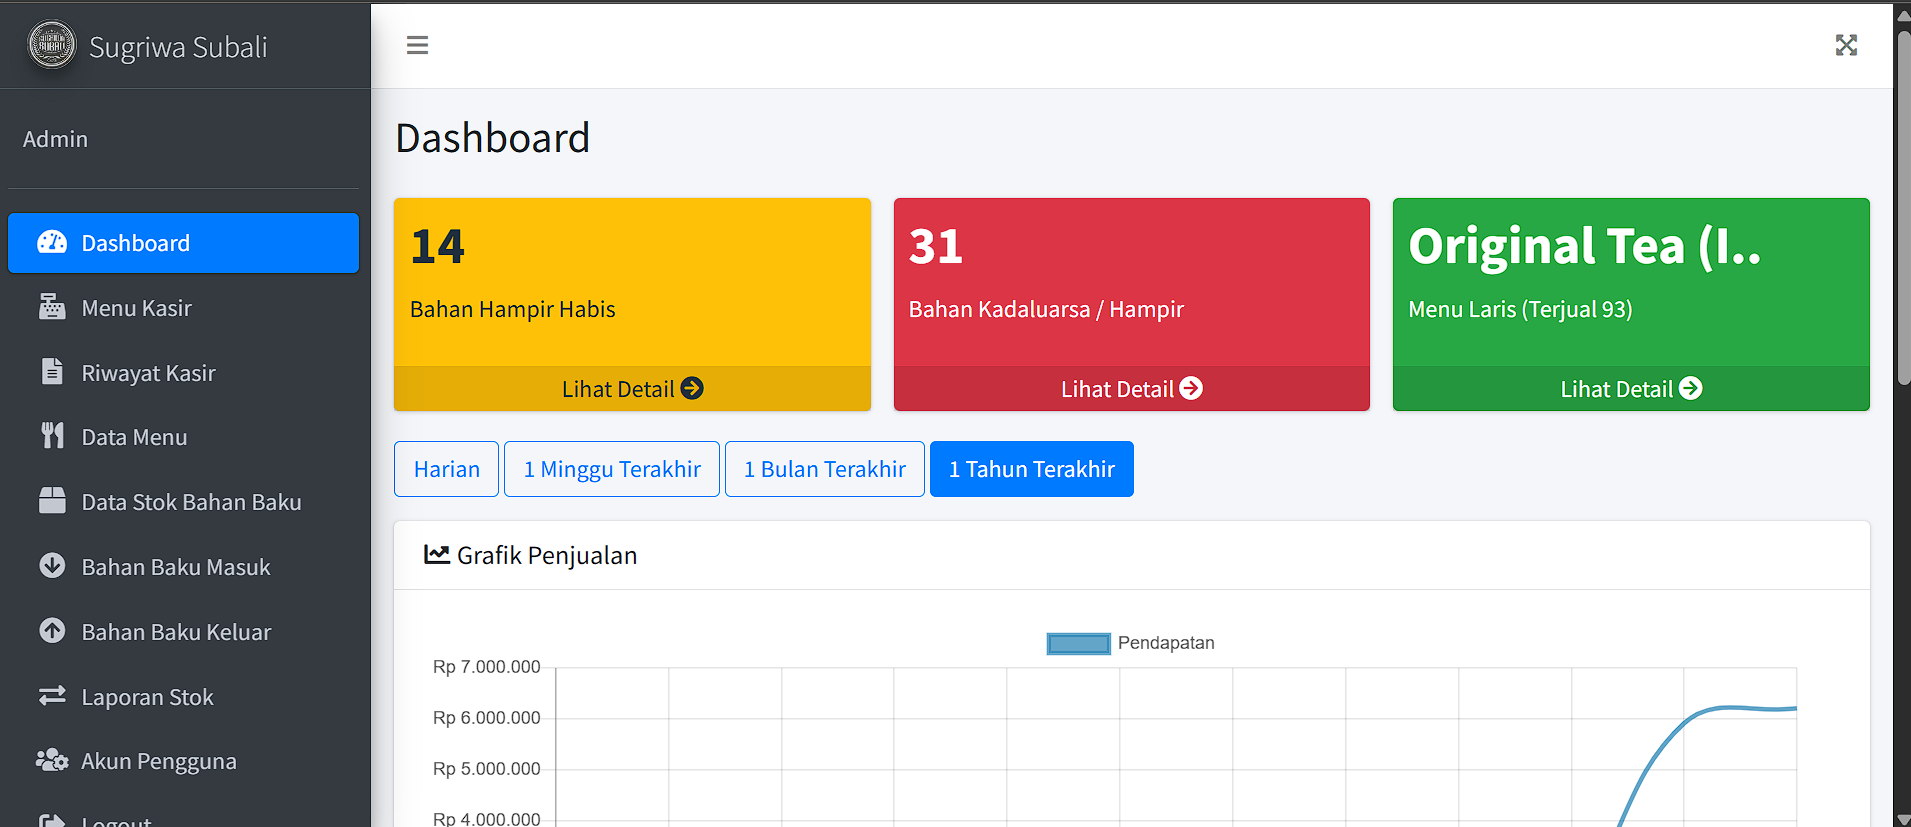
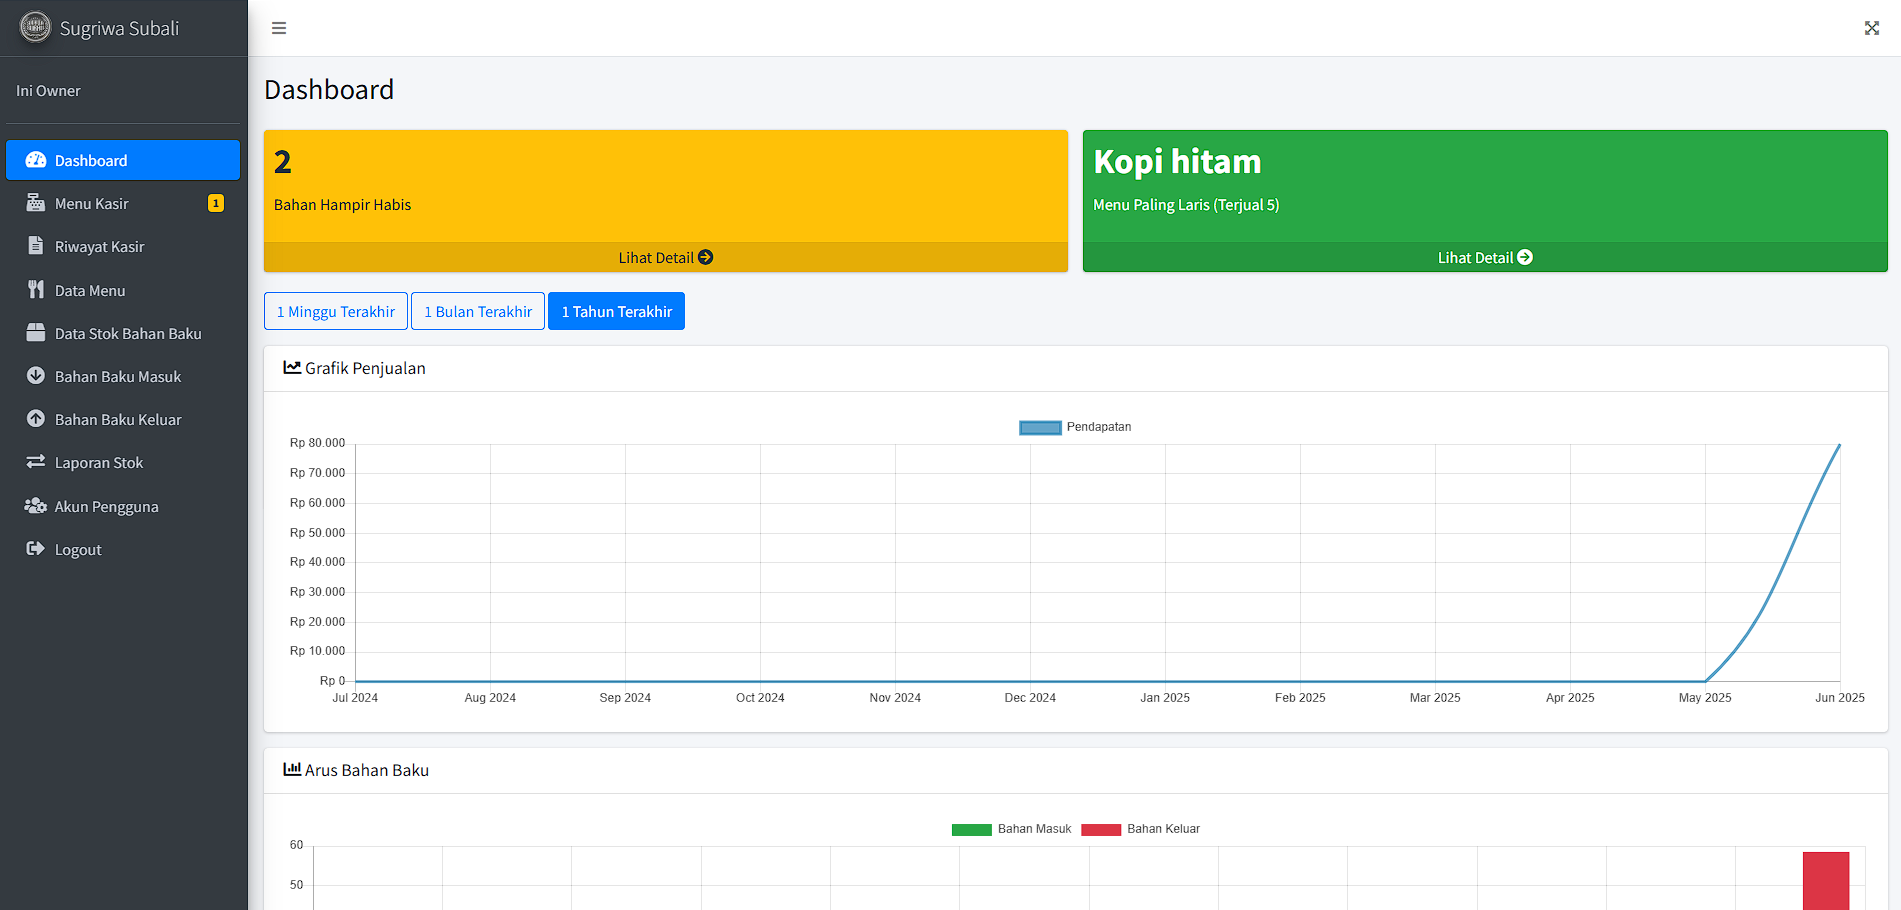
perbaikan lagi

diff --git a/detail.project/freelance_itsensing.html b/detail.project/freelance_itsensing.html
@@ -43,9 +43,9 @@
                         <div class="carousel-item active">
                             <img src="../img/giscolab.png" class="d-block w-100 carousel-img zoomable" alt="Tampilan Sistem TechnoGIS 1">
                         </div>
-                        <!-- <div class="carousel-item">
-                            <img src="../img/proyek_terbaru_2.png" class="d-block w-100 carousel-img zoomable" alt="Tampilan Sistem TechnoGIS 2">
-                        </div> -->
+                        <div class="carousel-item">
+                            <img src="../img/snapping.png" class="d-block w-100 carousel-img zoomable" alt="Tampilan Sistem TechnoGIS 2">
+                        </div>
                     </div>
                     <button class="carousel-control-prev" type="button" data-bs-target="#projectCarousel" data-bs-slide="prev">
                         <span class="carousel-control-prev-icon"></span>
@@ -63,20 +63,20 @@
             <div class="col-lg-10">
                 <div class="content-box shadow-sm custom-justify">
                     <h3 class="fw-bold border-bottom pb-2 mb-4">Detail Proyek Freelance TechnoGIS</h3>
-                    <p>Proyek ini merupakan pengembangan sistem Web GIS tingkat lanjut yang dikerjakan selama masa freelance di TechnoGIS Indonesia dari Juni hingga Juli 2026[cite: 1].</p>
+                    <p>Proyek ini merupakan pengembangan sistem Web GIS tingkat lanjut yang dikerjakan selama masa freelance di TechnoGIS Indonesia dari Juni hingga Juli 2026.</p>
                     
                     <h5 class="fw-bold mt-4 text-danger">Tantangan yang Dihadapi</h5>
-                    <p>Sistem membutuhkan optimasi performa rendering saat memproses fitur editing interaktif pada objek spasial[cite: 1]. Selain itu, terdapat kebutuhan krusial untuk memperbaiki UI/UX modul editing agar pengalaman pengguna menjadi lebih intuitif[cite: 1].</p>
+                    <p>Sistem membutuhkan optimasi performa rendering saat memproses fitur editing interaktif pada objek spasial. Selain itu, terdapat kebutuhan krusial untuk memperbaiki UI/UX modul editing agar pengalaman pengguna menjadi lebih intuitif.</p>
                     
                     <h5 class="fw-bold mt-4 text-warning">Solusi Teknis</h5>
                     <ul>
-                        <li>Mengoptimalkan proses rendering dengan memanfaatkan pemrosesan tile[cite: 1].</li>
-                        <li>Mengimplementasikan fitur digitasi peta tingkat lanjut (*GIS drawing tools*) yang meliputi fungsi *Auto Snapping*, *default geometry*, *polygon select by region*, dan *object tracer*[cite: 1].</li>
-                        <li>Mengintegrasikan *backend* Laravel dengan layanan berbasis Python FastAPI untuk menangani beban proses analisis vektor geospasial[cite: 1].</li>
+                        <li>Mengoptimalkan proses rendering dengan memanfaatkan pemrosesan tile.</li>
+                        <li>Mengimplementasikan fitur digitasi peta tingkat lanjut (*GIS drawing tools*) yang meliputi fungsi *Auto Snapping*, *default geometry*, *polygon select by region*, dan *object tracer*.</li>
+                        <li>Mengintegrasikan *backend* Laravel dengan layanan berbasis Python FastAPI untuk menangani beban proses analisis vektor geospasial.</li>
                     </ul>
                     
                     <h5 class="fw-bold mt-4 text-success">Hasil & Dampak</h5>
-                    <p>Pengalaman pengguna (*UI/UX*) pada modul editing berhasil disempurnakan, ditandai dengan mekanisme *auto-save* yang andal dan alur manipulasi objek spasial yang jauh lebih mulus dan akurat[cite: 1].</p>
+                    <p>Pengalaman pengguna (*UI/UX*) pada modul editing berhasil disempurnakan, ditandai dengan mekanisme *auto-save* yang andal dan alur manipulasi objek spasial yang jauh lebih mulus dan akurat.</p>
                 </div>
             </div>
         </div>

diff --git a/detail.project/sirekat.html b/detail.project/sirekat.html
@@ -40,13 +40,25 @@
                     <div class="carousel-indicators">
                         <button type="button" data-bs-target="#projectCarousel" data-bs-slide-to="0" class="active"></button>
                         <button type="button" data-bs-target="#projectCarousel" data-bs-slide-to="1"></button>
+                        <button type="button" data-bs-target="#projectCarousel" data-bs-slide-to="2"></button>
+                        <button type="button" data-bs-target="#projectCarousel" data-bs-slide-to="3"></button>
+                        <button type="button" data-bs-target="#projectCarousel" data-bs-slide-to="4"></button>
                     </div>
                     <div class="carousel-inner">
                         <div class="carousel-item active">
-                            <img src="../img/sirekat.png" class="d-block w-100 carousel-img zoomable" alt="Dashboard SI-REKAT">
+                            <img src="../img/sirekat-2.png" class="d-block w-100 carousel-img zoomable" alt="Dashboard SI-REKAT">
                         </div>
                         <div class="carousel-item">
-                            <img src="../img/sirekat-2.png" class="d-block w-100 carousel-img zoomable" alt="Tampilan Fitur AI">
+                            <img src="../img/sirekat.png" class="d-block w-100 carousel-img zoomable" alt="Tampilan Fitur AI">
+                        </div>
+                        <div class="carousel-item">
+                            <img src="../img/peta-radar.png" class="d-block w-100 carousel-img zoomable" alt="Tampilan Fitur AI">
+                        </div>
+                        <div class="carousel-item">
+                            <img src="../img/ekstrak-radar.png" class="d-block w-100 carousel-img zoomable" alt="Tampilan Fitur AI">
+                        </div>
+                        <div class="carousel-item">
+                            <img src="../img/buku-hitam-radar.png" class="d-block w-100 carousel-img zoomable" alt="Tampilan Fitur AI">
                         </div>
                     </div>
                     <button class="carousel-control-prev" type="button" data-bs-target="#projectCarousel" data-bs-slide="prev">

diff --git a/detail.project/POS_SS.html b/detail.project/POS_SS.html
@@ -40,6 +40,8 @@
                     <div class="carousel-indicators">
                         <button type="button" data-bs-target="#projectCarousel" data-bs-slide-to="0" class="active"></button>
                         <button type="button" data-bs-target="#projectCarousel" data-bs-slide-to="1"></button>
+                        <button type="button" data-bs-target="#projectCarousel" data-bs-slide-to="2"></button>
+                        <button type="button" data-bs-target="#projectCarousel" data-bs-slide-to="3"></button>
                     </div>
                     <div class="carousel-inner">
                         <div class="carousel-item active">
@@ -47,6 +49,12 @@
                         </div>
                         <div class="carousel-item">
                             <img src="../img/Kafe_admin.png" class="d-block w-100 carousel-img zoomable" alt="Tampilan Dashboard Laporan">
+                        </div>
+                        <div class="carousel-item">
+                            <img src="../img/Dashboard_Notif.png" class="d-block w-100 carousel-img zoomable" alt="Tampilan Dashboard notif">
+                        </div>
+                        <div class="carousel-item">
+                            <img src="../img/Menu Kasir.png" class="d-block w-100 carousel-img zoomable" alt="Tampilan Dashboard notif">
                         </div>
                     </div>
                     <button class="carousel-control-prev" type="button" data-bs-target="#projectCarousel" data-bs-slide="prev">

diff --git a/detail.project/magang_itsensing.html b/detail.project/magang_itsensing.html
@@ -63,6 +63,7 @@
                         <button type="button" data-bs-target="#projectCarousel" data-bs-slide-to="0" class="active" aria-current="true"></button>
                         <button type="button" data-bs-target="#projectCarousel" data-bs-slide-to="1"></button>
                         <button type="button" data-bs-target="#projectCarousel" data-bs-slide-to="2"></button>
+                        <button type="button" data-bs-target="#projectCarousel" data-bs-slide-to="3"></button>
                     </div>
 
                     <!-- Gambar Slide -->
@@ -77,6 +78,10 @@
                         <div class="carousel-item">
                             <!-- Ganti dengan foto lain proyek ini -->
                             <img src="../img/sharemap_3d.png" class="d-block w-100 carousel-img zoomable" alt="Tampilan 3">
+                        </div>
+                        <div class="carousel-item">
+                            <!-- Ganti dengan foto lain proyek ini -->
+                            <img src="../img/styling.png" class="d-block w-100 carousel-img zoomable" alt="Tampilan 3">
                         </div>
                     </div>
 
